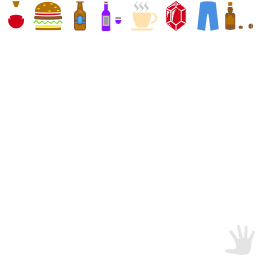
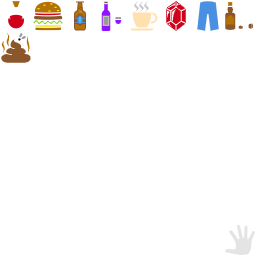
i can pick up and drop turds

Changed region(s): [[0.0, 0.125, 0.125, 0.25]]

diff --git a/aspirant_application/Game.Avatar.cpp b/aspirant_application/Game.Avatar.cpp
@@ -82,6 +82,11 @@ namespace game::Avatar
 		return std::nullopt;
 	}
 
+	static std::optional<std::string> Poop()
+	{
+		return application::Sounds::Read(application::UI::Sfx::HUNTER_POOPS);
+	}
+
 	std::optional<std::string> MoveAhead()
 	{
 		std::optional<std::string> result = std::nullopt;
@@ -112,6 +117,10 @@ namespace game::Avatar
 				else
 				{
 					avatar::Statistics::Decrease(avatar::Statistic::HUNGER, HUNGER_RATE);
+				}
+				if (game::avatar::Statistics::IsMaximum(game::avatar::Statistic::BOWEL))//are you poopin'?
+				{
+					result = Poop();
 				}
 			}
 			else

diff --git a/aspirant_application/Game.Avatar.Statistics.h b/aspirant_application/Game.Avatar.Statistics.h
@@ -20,6 +20,7 @@ namespace game::avatar::Statistics
 	int Read(const ::game::avatar::Statistic&);
 	void Write(const ::game::avatar::Statistic&, int);
 	bool IsMinimum(const ::game::avatar::Statistic&);
+	bool IsMaximum(const ::game::avatar::Statistic&);
 	void Decrease(const ::game::avatar::Statistic&, int);
 	void Increase(const ::game::avatar::Statistic&, int);
 	void Reset();

diff --git a/aspirant_application/Game.Avatar.Statistics.cpp b/aspirant_application/Game.Avatar.Statistics.cpp
@@ -62,6 +62,11 @@ namespace game::avatar::Statistics
 		return Read(statistic) == Minimum(statistic);
 	}
 
+	bool IsMaximum(const ::game::avatar::Statistic& statistic)
+	{
+		return Read(statistic) == Maximum(statistic);
+	}
+
 	void Reset()
 	{
 		for (auto& item : ::data::Stores::GetStore(::data::Store::STATISTICS).items())

diff --git a/aspirant_application/Application.Sounds.h b/aspirant_application/Application.Sounds.h
@@ -10,9 +10,11 @@ namespace application::UI
 		EXIT,
 		HIT_HUNTER,
 		HIT_BLOCKED,
-		WOOHOO
+		WOOHOO,
+		HUNTER_POOPS
 	};
 }
+
 namespace application::Sounds
 {
 	std::optional<std::string> Read(const application::UI::Sfx&);
